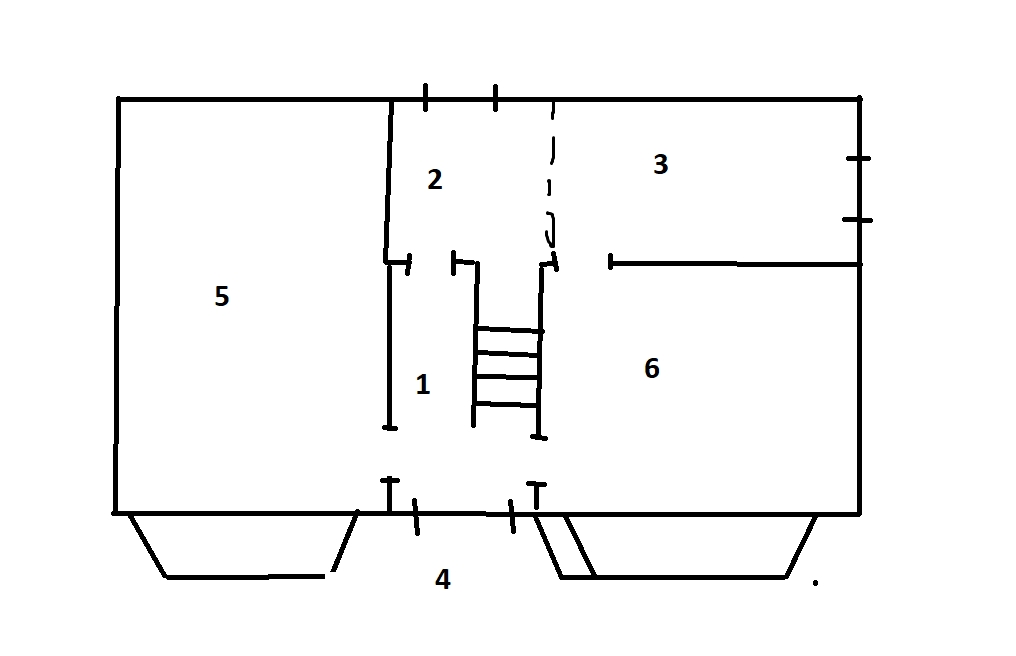
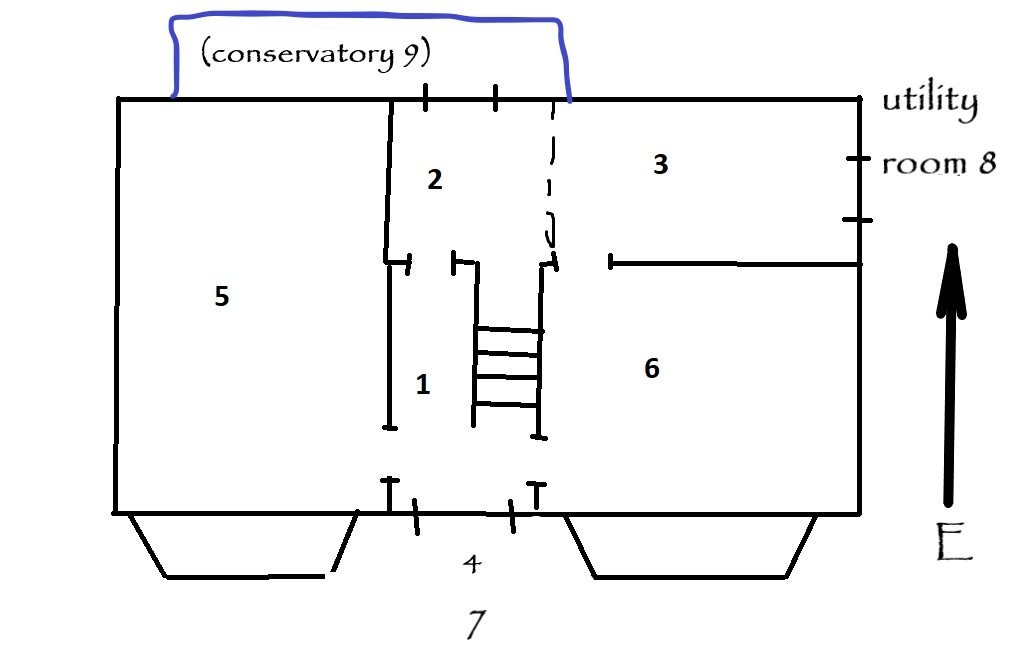
2 new rooms, verified directions working manually

diff --git a/creative/circuit_lane_adv.html b/creative/circuit_lane_adv.html
@@ -17,23 +17,24 @@
 // N, S, E, W, U, D, Object (-ve = monster, 0 = empty, >9 = treasure
   var roomAry=[[0,0,0,0,0,0,0,0]    // ROOM 0 (dummy)
               ,[5,6,2,4,0,0,0,0]   // ROOM 1 (Front Hall)
-              ,[0,3,0,1,0,0,0,0]   // ROOM 2 (Left Kitchen)
-              ,[2,0,0,6,0,0,0,0]   // ROOM 3 (Right Kitchen)
+              ,[0,3,9,1,0,0,0,0]   // ROOM 2 (Left Kitchen)
+              ,[2,8,0,6,0,0,0,0]   // ROOM 3 (Right Kitchen)
               ,[0,0,1,7,0,0,0,0]   // ROOM 4 (Front Garden)
               ,[0,1,0,0,0,0,0,0]   // ROOM 5 (Living Room)
               ,[1,1,3,0,0,0,0,0]   // ROOM 6 (Dining/School Room)
               ,[0,0,4,0,0,0,0,0]   // ROOM 7 (Quiet Lane)
-              ,[0,0,0,0,0,0,0,0]   // ROOM 8
+              ,[3,0,0,0,0,0,0,0]   // ROOM 8 (Utility Room)
+              ,[0,0,0,2,0,0,0,0]   // ROOM 8 (Conservatory)
               ];
 
   var roomDescriptions=[["This is a dummy room, nobody ever goes here!"]
                        ,[ "You are in the front hall.\n"                               // room 1
                          ,"There is a staircase going up"
-                         ,"There are exits to the North, East and West"]
+                         ,"There are exits to the North, South, East and West"]
                        ,[ "You are in the left kitchen.\n"                             // room 2
-                         ,"There is an exit N to the garden"]
+                         ,"There is an exit east to the conservatory"]
                        ,[ "You are in the right kitchen.\n"                            // room 3
-                         ,"A door leads East to the Utility Room"]
+                         ,"A door leads South to the Utility Room"]
                        ,[ "You are outside in the front garden.\n"                     // room 4
                          ,"There is a line of lavender plants leading up to a front door"]
                        ,[ "You are in the living room.\n"                              // room 5
@@ -42,6 +43,10 @@
                          ,"There are 2 exits to the west"]
                        ,[ "You are in a quiet lane.\n"                                 // room 7
                          ,"to the east is a driveway"]
+                       ,[ "You are in the Utility Room.\n"                             // room 8
+                         ,"to the north is a kitchen"]
+                       ,[ "You are in the conservatory.\n"                             // room 9
+                         ]
                        ]
 
 gContext = 1;
@@ -339,9 +344,18 @@ function showRooms()
 <!-- question: <span id="quest1"></span> -->
 <input TYPE="button" title="answer (Y)es" value="Yes" onclick="TickYesOrNo('Y');" />&nbsp;
 <input TYPE="button" title="answer (N)o" value="No" onclick="TickYesOrNo('N');" />&nbsp;
-<input TYPE="button" id="showrooms" title="show room array" value="ShowRoom" onclick="showRooms();" />&nbsp;
+<input TYPE="button" id="showrooms" title="show room array" value="ShowRoom" onclick="showRooms();" />&nbsp;<br>
 
-<input TYPE="button" title="answer (N)orth" value="N" onclick="TickYesOrNo('N');" />&nbsp;
+<!--<input TYPE="button" title="answer (N)orth" value="N" onclick="TickNSEWUD('N');" />&nbsp-->
+<!--<input TYPE="button" title="answer (S)outh" value="S" onclick="TickNSEWUD('S');" />&nbsp-->
+<!--<input TYPE="button" title="answer (E)ast"  value="E" onclick="TickNSEWUD('E');" />&nbsp-->
+<!--<input TYPE="button" title="answer (W)est"  value="W" onclick="TickNSEWUD('W');" />&nbsp-->
+
+<table>
+<tr><td></td><td><input TYPE="button" title="answer (N)orth" value="N" onclick="TickNSEWUD('N');" /></td><td></td></tr>
+<tr><td><input TYPE="button" title="answer (W)est"  value="W" onclick="TickNSEWUD('W');" /></td><td></td><td><input TYPE="button" title="answer (E)ast"  value="E" onclick="TickNSEWUD('E');" /></td></tr>
+<tr><td></td><td><input TYPE="button" title="answer (S)outh" value="S" onclick="TickNSEWUD('S');" /></td><td></td></tr>
+</table>
 
 <br>command: <input id="inputtbox" type="text" size="100" onkeypress="checkEnter(this);"></input>
 <br><span id="saveconf">X</span>

diff --git a/creative/common/bas_funcs.js b/creative/common/bas_funcs.js
@@ -20,6 +20,19 @@ function TickYesOrNo(pYN) {
   return false;
 }
 
+function TickNSEWUD(pYN) {
+
+//  index = directions.search(pYN);
+//  alert("direction index="+index);
+  if (-1 == directions.search(pYN)) { alert("TickNSEWUD(): this should never happen !"); }
+
+  response$ = pYN;
+  basPrint(response$);
+  processResponse();
+  inputtbox.focus();
+  return false;
+}
+
 function checkEnter(tbox)
 {
   var characterCode;
